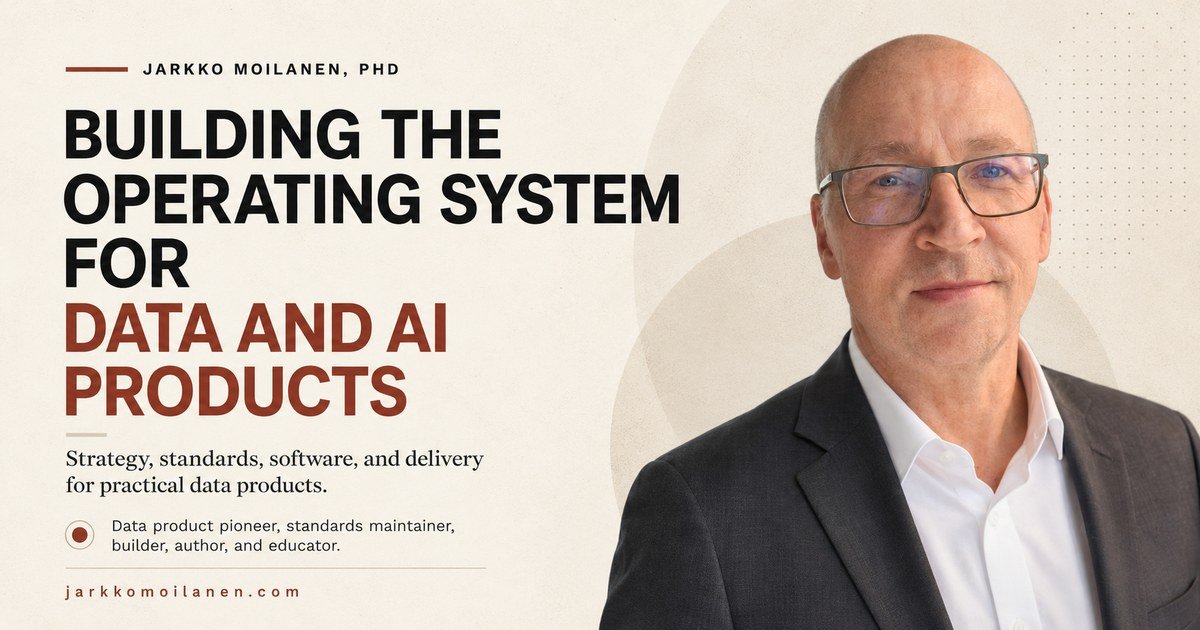
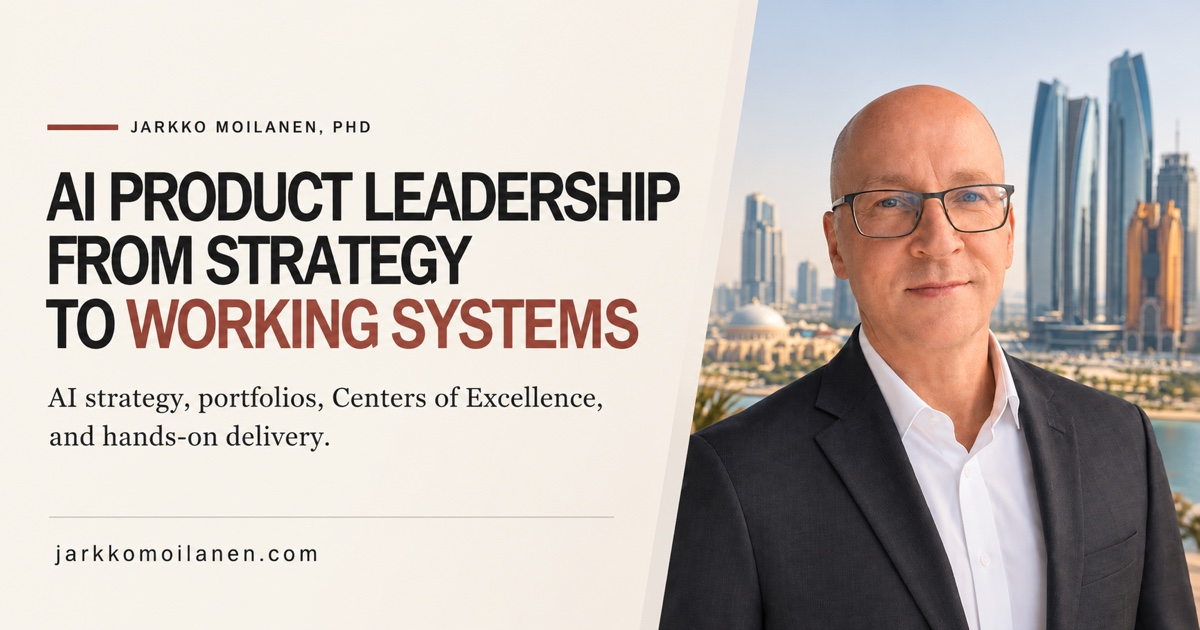
Optimize SEO positioning and social preview

diff --git a/app/page.tsx b/app/page.tsx
@@ -54,24 +54,27 @@ const engagementOptions = [
       "Typical scope covers a defined business domain and two to three target workflows. Production implementation is scoped separately.",
   },
   {
-    title: "AI Product Operating Model",
+    title: "AI Center of Excellence & Operating Model",
     engagement: "4 to 6-week engagement",
     pricingLabel: "Typical investment",
     price: "AED 90K–130K",
     question:
-      "AI pilots are being built, but ownership, decisions and delivery do not scale.",
+      "AI initiatives are growing, but ownership, prioritisation, governance and delivery do not scale.",
     text:
-      "I design the operating model that connects business priorities, AI product ownership, engineering, governance and portfolio decisions.",
+      "I design or strengthen your AI Center of Excellence and the operating model around it. We connect business priorities, AI product ownership, engineering, governance, portfolio decisions and value measurement.",
     outcomes: [
+      "AI CoE mandate and scope",
       "Roles and decision rights",
+      "AI opportunity intake and prioritisation",
       "Product lifecycle",
       "Portfolio governance",
-      "Delivery flow",
-      "KPI model",
+      "Delivery model",
+      "KPI and value model",
       "Operating cadence",
+      "90-day implementation plan",
     ],
     bestFor:
-      "Organisations moving from isolated AI projects toward a managed AI product portfolio.",
+      "Organisations moving from scattered AI initiatives and pilots toward a managed enterprise AI capability.",
     scopeNote:
       "Typical scope covers a medium-to-large organisation or a defined set of business functions. Group-wide or multi-entity transformation is scoped separately.",
   },
@@ -239,9 +242,10 @@ export default function Home() {
               </h1>
               <p className="hero-lede">
                 I help government and enterprise teams turn AI and data
-                initiatives into products that work. I lead strategy, portfolios
-                and operating models, and I also work hands-on with AI agents,
-                agent harnesses, MCP, APIs and knowledge graphs and ontologies.
+                initiatives into products that work. I lead AI strategy,
+                portfolios, Centers of Excellence and operating models, and I
+                also work hands-on with AI agents, agent harnesses, MCP, APIs
+                and knowledge graphs.
               </p>
               <div className="hero-actions">
                 <a className="button primary" href="#engagements">
@@ -341,8 +345,8 @@ export default function Home() {
             <div>
               <span>Lead</span>
               <p>
-                Executive leadership, AI product strategy, portfolio management,
-                and operating models.
+                Executive leadership, AI strategy, AI Center of Excellence
+                setup, product portfolio management, and operating models.
               </p>
             </div>
             <div>

diff --git a/app/layout.tsx b/app/layout.tsx
@@ -7,6 +7,8 @@ import {
   DEFAULT_OG_IMAGE,
   DEFAULT_OG_IMAGE_ALT,
   DEFAULT_TITLE,
+  LINKEDIN_PROFILE_URL,
+  PROFILE_DESCRIPTION,
   SITE_NAME,
   SITE_URL,
 } from "./seo";
@@ -23,6 +25,60 @@ const geistMono = Geist_Mono({
   variable: "--font-geist-mono",
   subsets: ["latin"],
 });
+
+const structuredData = {
+  "@context": "https://schema.org",
+  "@graph": [
+    {
+      "@type": "WebSite",
+      "@id": `${SITE_URL}/#website`,
+      url: SITE_URL,
+      name: SITE_NAME,
+      description: DEFAULT_DESCRIPTION,
+      publisher: {
+        "@id": `${SITE_URL}/#person`,
+      },
+      inLanguage: "en",
+    },
+    {
+      "@type": "Person",
+      "@id": `${SITE_URL}/#person`,
+      name: SITE_NAME,
+      honorificSuffix: "PhD",
+      url: SITE_URL,
+      image: `${SITE_URL}/images/jarkko-hero-abudhabi-2026.jpeg`,
+      jobTitle: "Senior AI and Data Product Leader",
+      description: PROFILE_DESCRIPTION,
+      sameAs: [
+        LINKEDIN_PROFILE_URL,
+        "https://www.udemy.com/user/jarkko-moilanen/",
+        "https://us.amazon.com/stores/Jarkko-Moilanen/author/B0B66HTHLM",
+      ],
+      knowsAbout: [
+        "AI strategy",
+        "Data products",
+        "AI product portfolios",
+        "AI Centers of Excellence",
+        "Operating models",
+        "AI agents",
+        "Model Context Protocol",
+        "APIs",
+        "Knowledge graphs",
+        "Ontologies",
+        "Data governance",
+      ],
+      worksFor: {
+        "@type": "Organization",
+        name: "Data Maestro Academy FZE LLC",
+      },
+      address: {
+        "@type": "PostalAddress",
+        addressLocality: "Abu Dhabi",
+        addressCountry: "AE",
+      },
+    },
+  ],
+};
 
 export const metadata: Metadata = {
   metadataBase: new URL(SITE_URL),
@@ -97,6 +153,12 @@ export default function RootLayout({
             gtag('config', '${googleAnalyticsId}');
           `}
         </Script>
+        <script
+          type="application/ld+json"
+          dangerouslySetInnerHTML={{
+            __html: JSON.stringify(structuredData),
+          }}
+        />
         {children}
       </body>
     </html>

diff --git a/app/site.tsx b/app/site.tsx
@@ -17,7 +17,7 @@ export const workItems = [
     label: "Platform and Portfolio Studio",
     title: "Maysano",
     summary:
-      "A connected environment for governed data product portfolios.",
+      "Portfolio Studio for turning strategy, discovery, governance, and data product decisions into a working operating environment.",
     image: "/images/work-maysano.png",
     imageAlt: "Maysano portfolio flow from business goals to data products",
     cta: "See how it works",
@@ -78,7 +78,7 @@ export const workItems = [
     label: "Open standard and SDK",
     title: "Data Product Standards",
     summary:
-      "An open standard and toolkit for governed, interoperable, agent-ready data products.",
+      "Open standards and SDKs for governed, interoperable, agent-ready data products across platforms, teams, and organizations.",
     image: "/images/work-odps.png",
     imageAlt: "Open Data Product Specification family maintained under Linux Foundation",
     cta: "Explore the standard",
@@ -171,7 +171,7 @@ export const workItems = [
     label: "Abu Dhabi Government AI delivery",
     title: "Building AI products for public value",
     summary:
-      "From AI ambition to a governed product portfolio",
+      "Senior portfolio work shaping AI products at scale across Abu Dhabi Government priorities, data readiness, governance, and delivery.",
     image: "/images/work-abudhabi.png",
     imageAlt: "AI product delivery path from priority needs to public value",
     cta: "Discuss the approach",
@@ -224,7 +224,7 @@ export const workItems = [
     label: "Community AI education",
     title: "School 4 AI",
     summary:
-      "A community learning initiative for young people to learn AI and English through practice.",
+      "A community learning initiative helping young people learn practical AI, English, teamwork, and product building through visible outcomes.",
     image: "/images/work-school4ai.webp",
     imageAlt:
       "Vietnamese young people learning AI and English through a community activity",

diff --git a/app/about/page.tsx b/app/about/page.tsx
@@ -2,21 +2,22 @@ import type { Metadata } from "next";
 import {
   DEFAULT_OG_IMAGE,
   DEFAULT_OG_IMAGE_ALT,
+  PROFILE_DESCRIPTION,
   canonicalPath,
 } from "../seo";
 import { Arrow, PageShell, assetPath, sitePath } from "../site";
 
 export const metadata: Metadata = {
-  title: "About",
-  description:
-    "About Jarkko Moilanen, PhD, and the work connecting strategy, standards, governance, software, and delivery for data and AI products.",
+  title: {
+    absolute: "About Jarkko Moilanen | Senior AI & Data Product Leader",
+  },
+  description: PROFILE_DESCRIPTION,
   alternates: {
     canonical: canonicalPath("/about"),
   },
   openGraph: {
-    title: "About | Jarkko Moilanen",
-    description:
-      "About Jarkko Moilanen, PhD, and the work connecting strategy, standards, governance, software, and delivery for data and AI products.",
+    title: "About Jarkko Moilanen | Senior AI & Data Product Leader",
+    description: PROFILE_DESCRIPTION,
     url: canonicalPath("/about"),
     type: "profile",
     images: [
@@ -30,9 +31,8 @@ export const metadata: Metadata = {
   },
   twitter: {
     card: "summary_large_image",
-    title: "About | Jarkko Moilanen",
-    description:
-      "About Jarkko Moilanen, PhD, and the work connecting strategy, standards, governance, software, and delivery for data and AI products.",
+    title: "About Jarkko Moilanen | Senior AI & Data Product Leader",
+    description: PROFILE_DESCRIPTION,
     images: [DEFAULT_OG_IMAGE],
   },
 };

diff --git a/app/seo.ts b/app/seo.ts
@@ -1,13 +1,20 @@
 export const SITE_URL = "https://jarkkomoilanen.com";
 export const SITE_NAME = "Jarkko Moilanen";
 
-export const DEFAULT_TITLE = "Jarkko Moilanen | Data Product Pioneer";
+export const DEFAULT_TITLE =
+  "Jarkko Moilanen | Senior AI & Data Product Leader";
 export const DEFAULT_DESCRIPTION =
-  "Jarkko Moilanen builds the operating systems, standards, platforms, and methods that turn data and AI into governed business products.";
+  "Senior AI and data product leader helping government and enterprise teams scale AI strategy, portfolios, Centers of Excellence, operating models, agents, MCP, APIs, and knowledge graphs.";
 
 export const DEFAULT_OG_IMAGE = "/images/social-share.jpg";
 export const DEFAULT_OG_IMAGE_ALT =
   "Jarkko Moilanen social preview for data and AI product work";
+
+export const PROFILE_DESCRIPTION =
+  "Jarkko Moilanen is a senior AI and data product leader based in Abu Dhabi, helping government and enterprise teams turn AI and data initiatives into governed products at scale.";
+
+export const LINKEDIN_PROFILE_URL =
+  "https://www.linkedin.com/in/jarkkomoilanen/";
 
 export function absoluteUrl(path: string) {
   return new URL(path, SITE_URL).toString();
